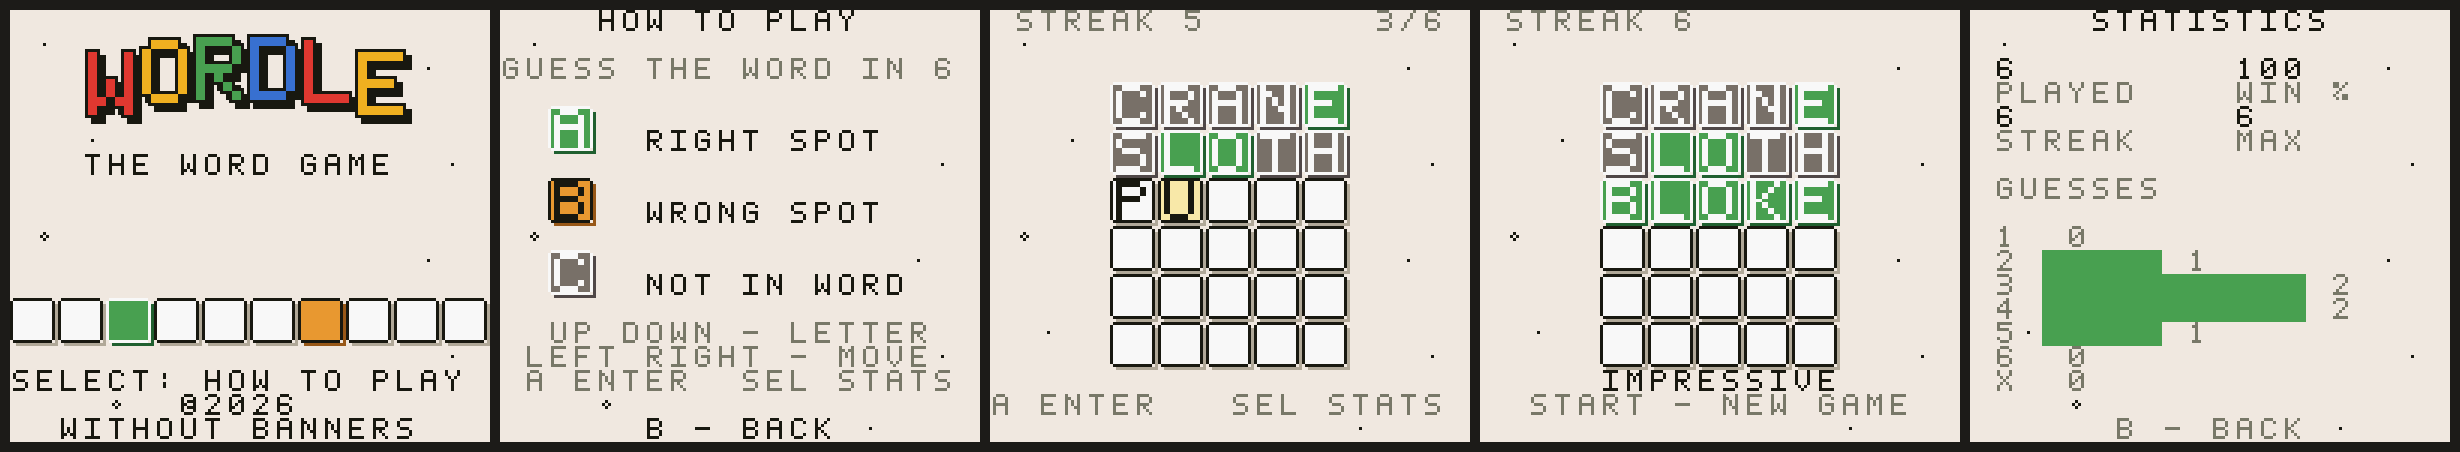
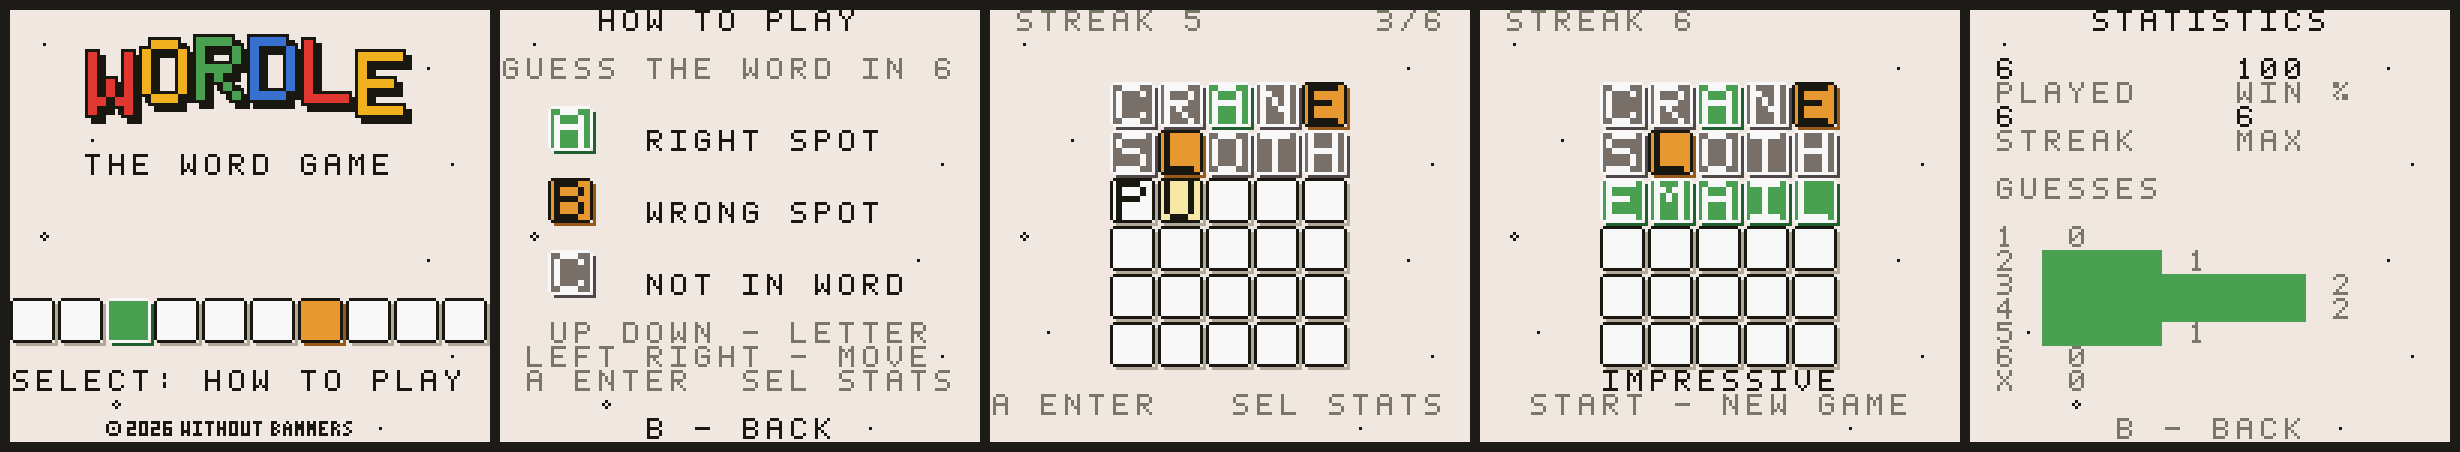
Credit line in a baked 3x5 mini font
One footnote-scale line with a real (c) mark, pre-rendered as a pixel
strip and deduped into 11 tiles, replacing the two full-size text rows.

Claude-Session: https://claude.ai/code/session_01KTpzkRtXxxRbc1ZKsxXH5Z

Changed region(s): [[0.6488, 0.1858, 0.7724, 0.4956], [0.4634, 0.1858, 0.5561, 0.4027], [0.0, 0.8673, 0.1854, 0.9912]]

diff --git a/tools/gen_tiles.py b/tools/gen_tiles.py
@@ -292,6 +292,64 @@ def make_logo2():
     return tiles, tilemap, attr
 
 
+MINI = {
+    "0": ["###", "#.#", "#.#", "#.#", "###"],
+    "2": ["###", "..#", "###", "#..", "###"],
+    "6": ["###", "#..", "###", "#.#", "###"],
+    "A": [".#.", "#.#", "###", "#.#", "#.#"],
+    "B": ["##.", "#.#", "##.", "#.#", "##."],
+    "E": ["###", "#..", "##.", "#..", "###"],
+    "H": ["#.#", "#.#", "###", "#.#", "#.#"],
+    "I": ["###", ".#.", ".#.", ".#.", "###"],
+    "N": ["#.#", "###", "###", "#.#", "#.#"],
+    "O": ["###", "#.#", "#.#", "#.#", "###"],
+    "R": ["##.", "#.#", "##.", "#.#", "#.#"],
+    "S": [".##", "#..", ".#.", "..#", "##."],
+    "T": ["###", ".#.", ".#.", ".#.", ".#."],
+    "U": ["#.#", "#.#", "#.#", "#.#", "###"],
+    "W": ["#.#", "#.#", "#.#", "###", "#.#"],
+}
+
+# 5x5 copyright mark for the credit strip.
+MINI_C = [".###.", "#...#", "#.#.#", "#...#", ".###."]
+
+
+def make_credit():
+    """The copyright line baked as one pixel strip in a 3x5 mini font, so it
+    can sit a size below everything else on screen. Free-form pixels, not
+    per-character tiles: the (c) mark is 5px, letters 3px, then the strip is
+    sliced and deduped. Ink in value 2 to ride the text palette."""
+    text = "2026 WITHOUT BANNERS"
+    width = 5 + 2
+    for ch in text:
+        width += 2 if ch == " " else 4
+    tiles_w = (width + 7) // 8
+    c = blank(tiles_w * 8, 8, 0)
+    x = 0
+    for gy, row in enumerate(MINI_C):
+        for gx, px in enumerate(row):
+            if px == "#":
+                c[1 + gy][x + gx] = 2
+    x += 7
+    for ch in text:
+        if ch == " ":
+            x += 2
+            continue
+        for gy, row in enumerate(MINI[ch]):
+            for gx, px in enumerate(row):
+                if px == "#":
+                    c[1 + gy][x + gx] = 2
+        x += 4
+    tiles, tilemap, index = [], [], {}
+    for tx in range(tiles_w):
+        sub = tuple(tuple(c[y][tx * 8 + xx] for xx in range(8)) for y in range(8))
+        if sub not in index:
+            index[sub] = len(tiles)
+            tiles.append(encode_tile([list(r) for r in sub]))
+        tilemap.append(index[sub])
+    return tiles, tilemap
+
+
 def make_sparkle(kind):
     """Little dark decorations scattered on the sky, wordyl-style. Drawn in
     value 2, the ink slot of the text palette, so they need no palette of
@@ -324,12 +382,13 @@ def build_all():
     utils = [make_solid(), make_sparkle(0), make_sparkle(1), make_sparkle(2)]
     logo = make_logo()
     logo2, logo2_map, logo2_attr = make_logo2()
-    return cells, fonts, utils, logo, logo2, logo2_map, logo2_attr
+    credit, credit_map = make_credit()
+    return cells, fonts, utils, logo, logo2, logo2_map, logo2_attr, credit, credit_map
 
 
 def main():
     os.makedirs(RES, exist_ok=True)
-    cells, fonts, utils, logo, logo2, logo2_map, logo2_attr = build_all()
+    cells, fonts, utils, logo, logo2, logo2_map, logo2_attr, credit, credit_map = build_all()
 
     with open(os.path.join(RES, "tiles.c"), "w") as fh:
         fh.write('#include <gbdk/platform.h>\n#include <stdint.h>\n\n')
@@ -343,6 +402,10 @@ def main():
         fh.write("\n};\n\n")
         fh.write("const uint8_t logo2_attr[%d] = {\n    " % len(logo2_attr))
         fh.write(", ".join(str(v) for v in logo2_attr))
+        fh.write("\n};\n\n")
+        emit(fh, "credit_tiles", credit)
+        fh.write("const uint8_t credit_map[%d] = {\n    " % len(credit_map))
+        fh.write(", ".join(str(v) for v in credit_map))
         fh.write("\n};\n\n")
 
     with open(os.path.join(RES, "tiles.h"), "w") as fh:
@@ -360,6 +423,9 @@ def main():
         fh.write("#define LOGO2_TILE_COUNT %d\n" % len(logo2))
         fh.write("#define LOGO2_TILE_BASE %d\n" % (len(cells) + len(fonts) + len(utils) + len(logo)))
         fh.write("#define LOGO2_W 14\n#define LOGO2_H 4\n")
+        fh.write("#define CREDIT_TILE_COUNT %d\n" % len(credit))
+        fh.write("#define CREDIT_TILE_BASE %d\n" % (len(cells) + len(fonts) + len(utils) + len(logo) + len(logo2)))
+        fh.write("#define CREDIT_W %d\n" % len(credit_map))
         fh.write("#define TILE_SOLID (UTIL_TILE_BASE + 0)\n")
         fh.write("#define TILE_STAR (UTIL_TILE_BASE + 1)\n")
         fh.write("#define TILE_DOT (UTIL_TILE_BASE + 2)\n")
@@ -371,15 +437,18 @@ def main():
         fh.write("extern const uint8_t logo_tiles[];\n")
         fh.write("extern const uint8_t logo2_tiles[];\n")
         fh.write("extern const uint8_t logo2_map[];\n")
-        fh.write("extern const uint8_t logo2_attr[];\n\n")
+        fh.write("extern const uint8_t logo2_attr[];\n")
+        fh.write("extern const uint8_t credit_tiles[];\n")
+        fh.write("extern const uint8_t credit_map[];\n\n")
         fh.write("#endif\n")
 
-    total = len(cells) + len(fonts) + len(utils) + len(logo) + len(logo2)
+    total = len(cells) + len(fonts) + len(utils) + len(logo) + len(logo2) + len(credit)
     print("cell tiles : %d" % len(cells))
     print("font tiles : %d" % len(fonts))
     print("util tiles : %d" % len(utils))
     print("logo tiles : %d" % len(logo))
     print("logo2 tiles: %d" % len(logo2))
+    print("credit     : %d tiles, %d wide" % (len(credit), len(credit_map)))
     print("total      : %d / 256" % total)
     print("font order : %s" % "".join(FONT_ORDER))
 

diff --git a/src/render.c b/src/render.c
@@ -81,6 +81,15 @@ void render_game_palettes(void) {
     set_bkg_palette(PAL_ABSENT, 1, pal_absent);
 }
 
+// The pre-baked mini-font copyright strip, one row, text palette.
+void render_credit(uint8_t x, uint8_t y) {
+    uint8_t row[CREDIT_W];
+    for (uint8_t i = 0; i < CREDIT_W; i++)
+        row[i] = (uint8_t)(CREDIT_TILE_BASE + credit_map[i]);
+    set_bkg_tiles(x, y, CREDIT_W, 1, row);
+    render_set_attr(x, y, CREDIT_W, 1, PAL_TEXT);
+}
+
 void render_logo2(uint8_t x, uint8_t y) {
     for (uint8_t ty = 0; ty < LOGO2_H; ty++) {
         uint8_t row[LOGO2_W];
@@ -101,6 +110,7 @@ void render_init(void) {
     set_bkg_data(UTIL_TILE_BASE, UTIL_TILE_COUNT, util_tiles);
     set_bkg_data(LOGO_TILE_BASE, LOGO_TILE_COUNT, logo_tiles);
     set_bkg_data(LOGO2_TILE_BASE, LOGO2_TILE_COUNT, logo2_tiles);
+    set_bkg_data(CREDIT_TILE_BASE, CREDIT_TILE_COUNT, credit_tiles);
 
     set_bkg_palette(PAL_EMPTY,  1, pal_empty);
     set_bkg_palette(PAL_FILLED, 1, pal_filled);

diff --git a/src/render.h b/src/render.h
@@ -28,6 +28,7 @@ void render_bar(uint8_t x, uint8_t y, uint8_t width, uint8_t pal);
 void render_wordmark(uint8_t x, uint8_t y);
 void render_logo(uint8_t x, uint8_t y);
 void render_logo2(uint8_t x, uint8_t y);
+void render_credit(uint8_t x, uint8_t y);
 void render_title_palettes(void);
 void render_game_palettes(void);
 void render_key(uint8_t x, uint8_t y, uint8_t letter, uint8_t pal);

diff --git a/src/main.c b/src/main.c
@@ -370,8 +370,7 @@ static void title_draw(void) {
     }
 
     render_text_centered(15, "SELECT: HOW TO PLAY", PAL_TEXT);
-    render_text_centered(16, "@2026", PAL_TEXT);
-    render_text_centered(17, "WITHOUT BANNERS", PAL_TEXT);
+    render_credit(4, 17);
 }
 
 static void title_screen(void) {
